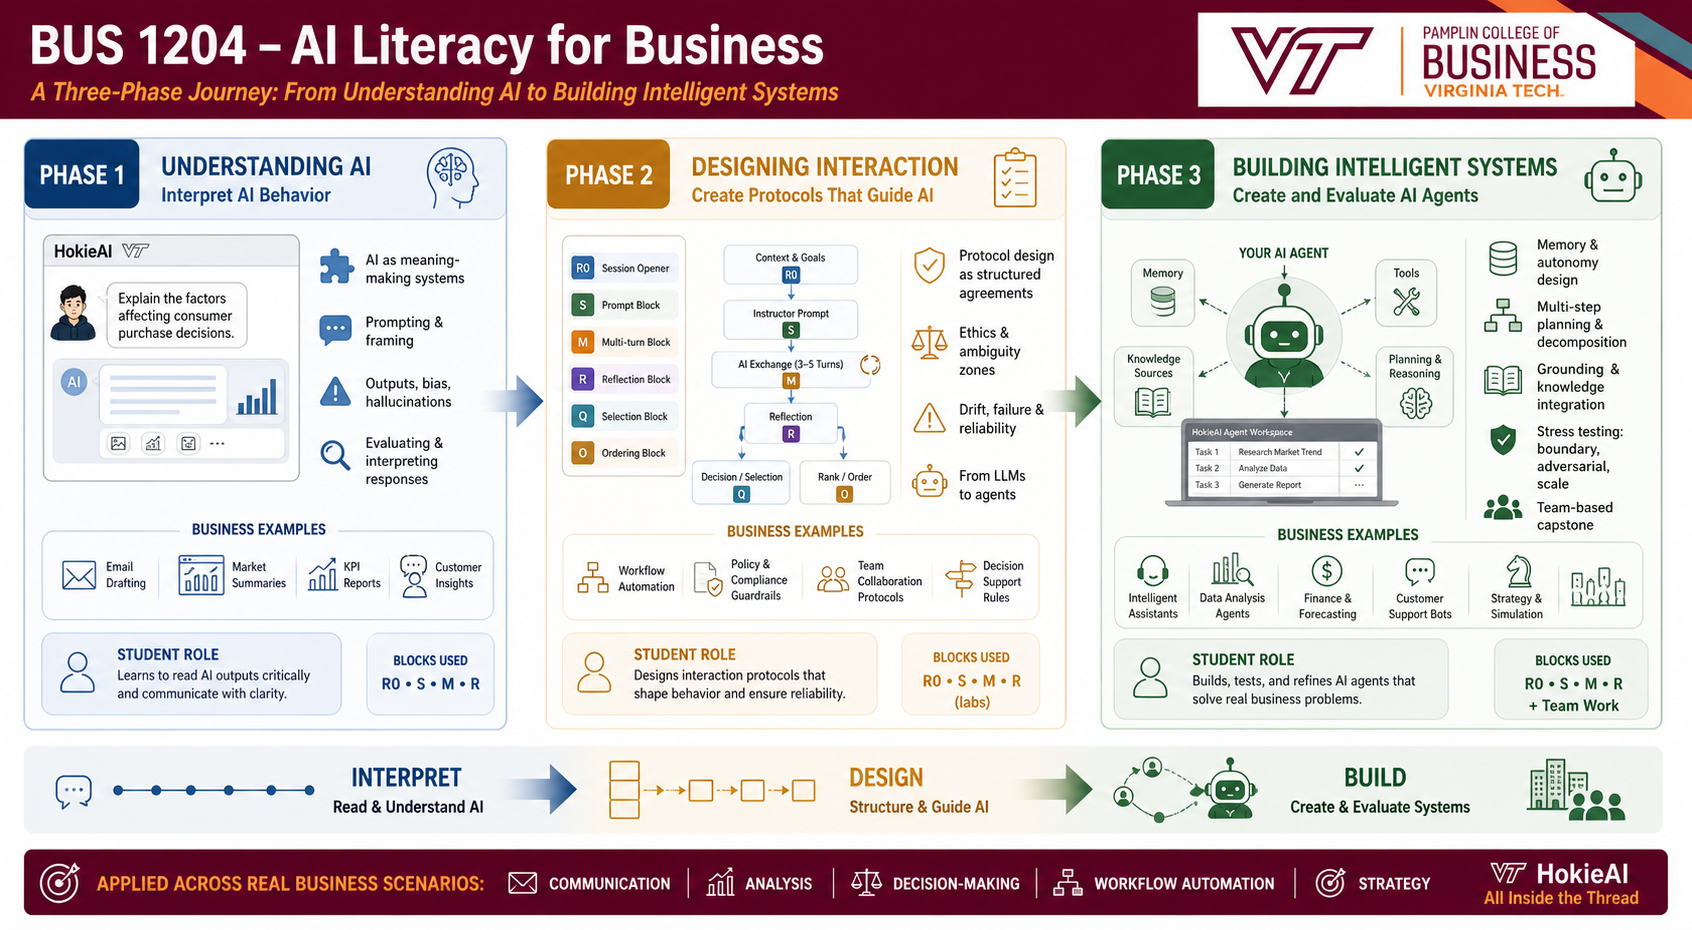
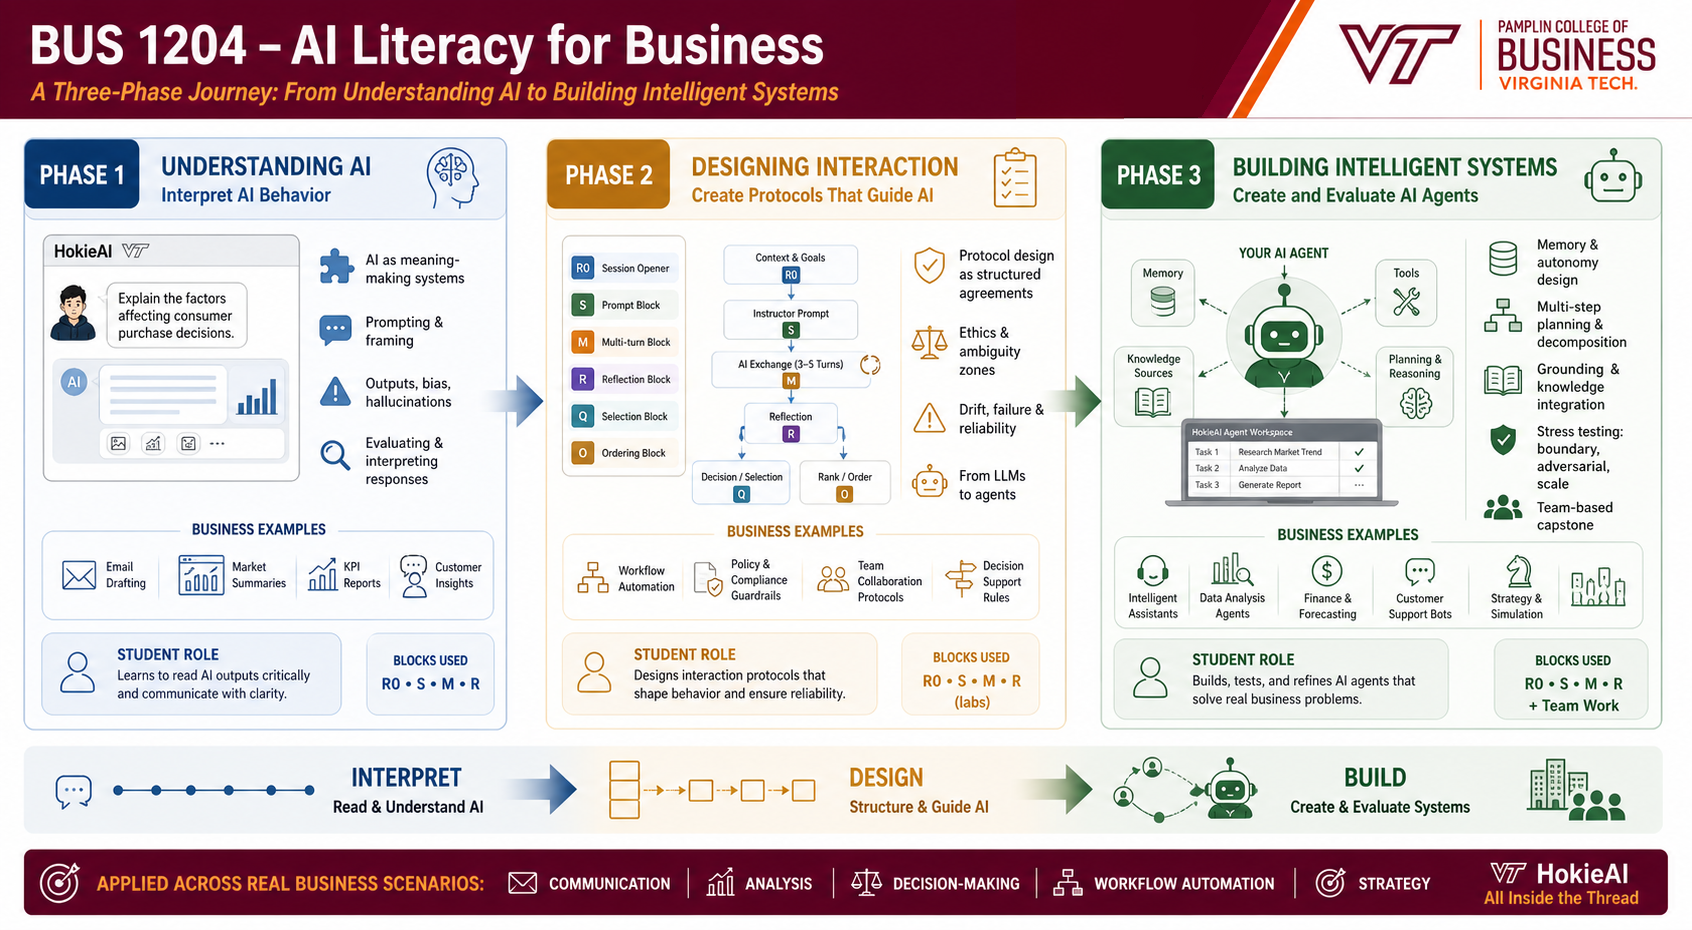
HANDOFF_03B setup: implement Under the Hood four-slide viewer

Changed region(s): [[0.7069, 0.0, 1.0, 0.1559]]

diff --git a/docs/HANDOFF_03B.md b/docs/HANDOFF_03B.md
@@ -1,0 +1,175 @@
+# HANDOFF_03B: Implement the Under the Hood spoke
+
+**Project:** AMCIS 2026 Workshop: Teaching Inside the Thread
+**Spec reference:** `docs/AMCIS_SPEC.md` v0.3 (SPEC v0.4 update follows separately)
+**Workshop date:** 2026-08-20
+**Cut:** Small. Replaces the Under the Hood stub with a working four-slide viewer, mirroring the Framework spoke's slide-viewer pattern.
+
+---
+
+## Goal of this iteration
+
+The Under the Hood spoke currently ships as a stub: a placeholder page with an "in active drafting" notice and prose descriptions of sections that were planned but never built. Four slide images for Under the Hood now exist in `assets/`. This handoff replaces the stub with a real four-slide navigable viewer.
+
+The viewer pattern is already proven. The Framework spoke (`framework/index.html`) is a working three-slide viewer with Previous/Next navigation, a slide counter, per-slide captions, and the shared site header. This handoff lifts that exact pattern, adapts it for four slides, and points it at the Under the Hood images.
+
+After this handoff, all three spokes (Framework, Companion, Under the Hood) are functionally complete, and the workshop site is a complete first draft.
+
+---
+
+## Current state of the repository
+
+After HANDOFF_03A executed:
+
+```
+/index.html                              (homepage, three doors)
+/assets/shared.css                       (design system, VT orange Home button)
+/assets/slide1.png, slide2.png, slide3.png   (Framework slides)
+/assets/slide4.png, slide5.png, slide6.png, slide7.png   (Under the Hood slides, newly placed)
+/framework/index.html                    (working three-slide viewer)
+/companion/index.html                    (full Companion state machine)
+/companion/config.json                   (full content tree)
+/under-the-hood/index.html               (STUB: to be replaced by this handoff)
+/docs/AMCIS_SPEC.md                      (v0.3)
+/docs/AGENT_DEFINITION.md                (v1.3)
+/docs/HANDOFF_*.md, CC_PROMPT_HANDOFF_*.md   (executed handoffs)
+/docs/reference/                         (Pamplin reference files)
+```
+
+The four Under the Hood slide images are already in place at `assets/slide4.png` through `assets/slide7.png`. This handoff does not create or modify image files.
+
+---
+
+## Reference: how the Framework spoke works
+
+`framework/index.html` is the pattern to mirror. Before doing anything else, CC reads `framework/index.html` in full to understand its structure. Key elements CC will find there:
+
+- The shared site header (the maroon banner, the "Teaching Inside the Thread" text-link top-left, the orange "Home" button top-right)
+- A slide display area showing one PNG at a time
+- "Previous" and "Next" navigation buttons
+- A slide counter ("1 of 3")
+- A per-slide caption line
+- Keyboard navigation (ArrowLeft / ArrowRight)
+- The logic that disables "Previous" on the first slide and "Next" on the last slide
+
+The Under the Hood viewer is the same thing with four slides instead of three.
+
+---
+
+## Deliverables
+
+### D1: Replace the Under the Hood stub
+
+Replace the entire contents of `under-the-hood/index.html`. The current stub content (the "in active drafting" notice, the "The Framework, Articulated" prose section, "The Workflow" prose section, and any other placeholder prose) is removed entirely. Under the Hood becomes purely a four-slide viewer, consistent with how the Framework spoke is purely its three slides with no surrounding prose.
+
+### D2: Implement the four-slide viewer
+
+Build the viewer by lifting the Framework spoke's slide-viewer pattern and adapting it for four slides.
+
+- The viewer displays one slide image at a time, from `assets/slide4.png` through `assets/slide7.png`, in that order.
+- Slide order: slide4 (position 1), slide5 (position 2), slide6 (position 3), slide7 (position 4).
+- "Previous" and "Next" buttons navigate between slides, styled identically to the Framework spoke's buttons.
+- "Previous" is disabled on slide 1 (slide4.png); "Next" is disabled on slide 4 (slide7.png).
+- A slide counter displays "1 of 4", "2 of 4", etc., matching the Framework spoke's counter style.
+- Keyboard navigation (ArrowLeft / ArrowRight) works, matching the Framework spoke.
+- The viewer opens on slide 1 (slide4.png) by default.
+
+### D3: Per-slide captions
+
+Each slide has a caption line beneath it, matching the Framework spoke's caption pattern (the Framework spoke uses captions like "Slide 1 of 3: From AI as Tool to Learning Inside the Thread").
+
+The four Under the Hood captions:
+
+- Slide 1 (slide4.png): "Slide 1 of 4: A Disciplined Human-AI Development Workflow"
+- Slide 2 (slide5.png): "Slide 2 of 4: The Orchestration Pipeline, From Specification to Deployed Artifact"
+- Slide 3 (slide6.png): "Slide 3 of 4: The Calibration Discipline Behind Trustworthy Assessment"
+- Slide 4 (slide7.png): "Slide 4 of 4: The AI-Centered Educational Ecosystem"
+
+### D4: Shared header and navigation
+
+The Under the Hood page uses the same shared site header as the other spokes:
+
+- The maroon banner
+- "Teaching Inside the Thread" text-link in the top-left, navigating to the homepage
+- The orange "Home" button in the top-right, navigating to the homepage (the VT-orange treatment from HANDOFF_03A)
+
+The page imports `assets/shared.css` for the design system, exactly as the other spokes do.
+
+### D5: No bottom Back-to-Home button
+
+Consistent with HANDOFF_03A's removal of the redundant bottom Back-to-Home button from the Framework spoke, the Under the Hood viewer does not have a bottom Back-to-Home button. The top-left text-link and the top-right Home button are the navigation home. Only the Previous/Next slide navigation appears at the bottom.
+
+---
+
+## Constraints
+
+- **Do not create or modify image files.** The four slide images are already in `assets/`. This handoff only builds the viewer that displays them.
+- **Do not modify the Framework spoke, the Companion spoke, the homepage, or `assets/shared.css`.** This handoff touches only `under-the-hood/index.html`. If the viewer needs any new CSS, and that CSS is genuinely specific to the Under the Hood page, it goes in an embedded `<style>` block in `under-the-hood/index.html`. If the Framework spoke's slide-viewer CSS is in `shared.css` and can be reused as-is, reuse it without modification.
+- **Do not modify `docs/AMCIS_SPEC.md` or `docs/AGENT_DEFINITION.md`.** SPEC update is handled separately.
+- **Do not add new dependencies.** No npm packages, no CDN imports. The Framework spoke's viewer is plain HTML/CSS/JS; the Under the Hood viewer is the same.
+- **No em dashes** in any rendered HTML or caption text.
+- **No contrastive constructions** in any rendered text.
+- **Match the Framework spoke's visual treatment exactly.** The Under the Hood viewer should be visually indistinguishable from the Framework viewer except for the slide images themselves and the captions. Same button styles, same counter style, same caption placement, same layout proportions.
+
+---
+
+## Expected outputs
+
+**Modified files:**
+
+```
+/under-the-hood/index.html    (stub replaced with the four-slide viewer)
+```
+
+**Unchanged files:**
+
+```
+/index.html
+/framework/index.html
+/companion/index.html
+/companion/config.json
+/assets/shared.css
+/assets/*.png
+/docs/*
+```
+
+This is a single-file handoff. Only `under-the-hood/index.html` changes.
+
+---
+
+## Done criteria
+
+- [ ] `under-the-hood/index.html` stub content fully removed (no "in active drafting" notice, no placeholder prose sections)
+- [ ] The page displays a four-slide viewer
+- [ ] Slides display in order: slide4.png, slide5.png, slide6.png, slide7.png
+- [ ] "Previous" and "Next" buttons navigate between slides
+- [ ] "Previous" is disabled on slide 1; "Next" is disabled on slide 4
+- [ ] Slide counter shows "1 of 4" through "4 of 4"
+- [ ] Each slide shows its caption line beneath it
+- [ ] ArrowLeft / ArrowRight keyboard navigation works
+- [ ] The viewer opens on slide 1 (slide4.png)
+- [ ] The shared header is present: maroon banner, top-left text-link to home, top-right orange Home button
+- [ ] No bottom Back-to-Home button
+- [ ] The page imports `assets/shared.css`
+- [ ] The viewer is visually consistent with the Framework spoke's viewer
+- [ ] No em dashes in any rendered text
+- [ ] No new dependencies
+
+**End-to-end smoke (suggested for Onur):**
+
+- [ ] From the homepage, click the Under the Hood door; the four-slide viewer opens on slide 1
+- [ ] Page through all four slides with Next; captions update correctly; counter updates
+- [ ] Page back with Previous; navigation works in reverse
+- [ ] Previous is disabled on slide 1, Next is disabled on slide 4
+- [ ] ArrowLeft / ArrowRight keys page through slides
+- [ ] The orange Home button and the top-left text-link both return to the homepage
+- [ ] The viewer looks consistent with the Framework spoke
+
+---
+
+## Notes for CC
+
+- This is a small handoff. The Framework spoke's slide viewer is working, tested code. Lift it; adapt it for four slides; point it at the Under the Hood images. Do not redesign the viewer or "improve" it. Visual and behavioral consistency with the Framework spoke is the goal.
+- The only substantive differences between the Framework viewer and the Under the Hood viewer are: four slides instead of three, different image filenames (slide4-7 instead of slide1-3), different caption strings, and the page title. Everything else is identical.
+- If the Framework spoke's viewer CSS lives in `assets/shared.css`, the Under the Hood viewer can reuse those same classes directly. If the Framework viewer's CSS is in an embedded style block in `framework/index.html`, replicate the needed rules in an embedded style block in `under-the-hood/index.html`. Do not modify `shared.css` or `framework/index.html` either way.
+- The page `<title>` should be something like "Under the Hood: Teaching Inside the Thread" consistent with how the other spokes title their pages (check what the Framework spoke uses and match the pattern).

diff --git a/docs/CC_PROMPT_HANDOFF_03B.md b/docs/CC_PROMPT_HANDOFF_03B.md
@@ -1,0 +1,72 @@
+# CC Prompt: HANDOFF_03B
+
+# EXECUTION MODE: AUTO-CONFIRM: STRONG
+
+You are executing HANDOFF_03B for the AMCIS 2026 Workshop project. This is a small, single-file handoff: replace the Under the Hood stub page with a working four-slide viewer that mirrors the Framework spoke's existing slide viewer.
+
+**Default to YES on routine confirmations.** This includes modifying `under-the-hood/index.html`. That is the only file this handoff changes.
+
+**Pause and ask before:**
+- Modifying any file other than `under-the-hood/index.html`
+- Modifying `framework/index.html`, `companion/index.html`, `index.html`, or `assets/shared.css`
+- Modifying anything in `docs/`
+- Creating or modifying any image file
+- Touching files inside `.git/` or outside the project directory
+- Adding any dependency
+
+**Report style.** When you finish, produce a single CC report with:
+1. File modified (path + summary)
+2. Where the slide-viewer pattern was lifted from and how it was adapted
+3. Any decisions made where the handoff gave latitude
+4. Anything you could not resolve
+5. Suggested smoke-test steps
+
+Do not write a long preamble. Read the inputs, execute, report.
+
+---
+
+## Inputs
+
+Read these before doing anything else:
+
+- `docs/AMCIS_SPEC.md`: the v0.3 specification, for project context.
+- `docs/HANDOFF_03B.md`: this iteration's unit of work. Read it fully.
+- `framework/index.html`: the existing, working three-slide viewer. This is the pattern you will lift and adapt. Read it carefully before writing anything.
+
+## Your job
+
+Per `docs/HANDOFF_03B.md`:
+
+Replace the stub at `under-the-hood/index.html` with a four-slide viewer. The viewer mirrors the Framework spoke's slide-viewer pattern exactly: Previous/Next navigation, slide counter, per-slide captions, keyboard navigation, the shared header with the orange Home button. It displays four images already present in `assets/` (slide4.png through slide7.png) with the four caption strings specified in the handoff.
+
+The handoff document (HANDOFF_03B.md) gives the five deliverables (D1-D5), the constraints, the four caption strings, and the done criteria. Follow it precisely.
+
+## Critical reminders
+
+1. **This is a single-file handoff.** Only `under-the-hood/index.html` changes. Do not modify the Framework spoke, the Companion spoke, the homepage, or `shared.css`.
+
+2. **Lift the Framework viewer; do not redesign it.** The Framework spoke's slide viewer is proven, tested code. The Under the Hood viewer should be visually and behaviorally indistinguishable from it except for the four images, the four captions, and the page title. Do not "improve" the viewer.
+
+3. **The four images already exist.** `assets/slide4.png` through `assets/slide7.png` are in place. This handoff builds the viewer only. Do not create or modify images.
+
+4. **The stub content is fully removed.** The current `under-the-hood/index.html` has an "in active drafting" notice and placeholder prose sections. All of it goes. Under the Hood becomes purely a four-slide viewer, consistent with how the Framework spoke is purely its three slides.
+
+5. **Slide order is slide4 → slide5 → slide6 → slide7.** Captions per the handoff's D3.
+
+6. **No bottom Back-to-Home button.** HANDOFF_03A removed that redundant button from the Framework spoke. The Under the Hood viewer does not have one either. Navigation home is the top-left text-link and the top-right orange Home button.
+
+7. **No em dashes, no new dependencies.**
+
+## Order of operations (suggested)
+
+1. Read `docs/AMCIS_SPEC.md`, `docs/HANDOFF_03B.md`, and `framework/index.html` in full.
+2. Identify the Framework viewer's structure: header, slide display, Previous/Next buttons, counter, captions, keyboard handling, the CSS that styles all of it.
+3. Build `under-the-hood/index.html` by adapting that structure for four slides.
+4. Verify: four slides, correct order, correct captions, navigation bounds (Previous disabled on slide 1, Next disabled on slide 4), keyboard nav, shared header.
+5. Produce the report.
+
+## When you finish
+
+Stop and produce the report. Onur will smoke-test locally before pushing to GitHub Pages.
+
+Begin.